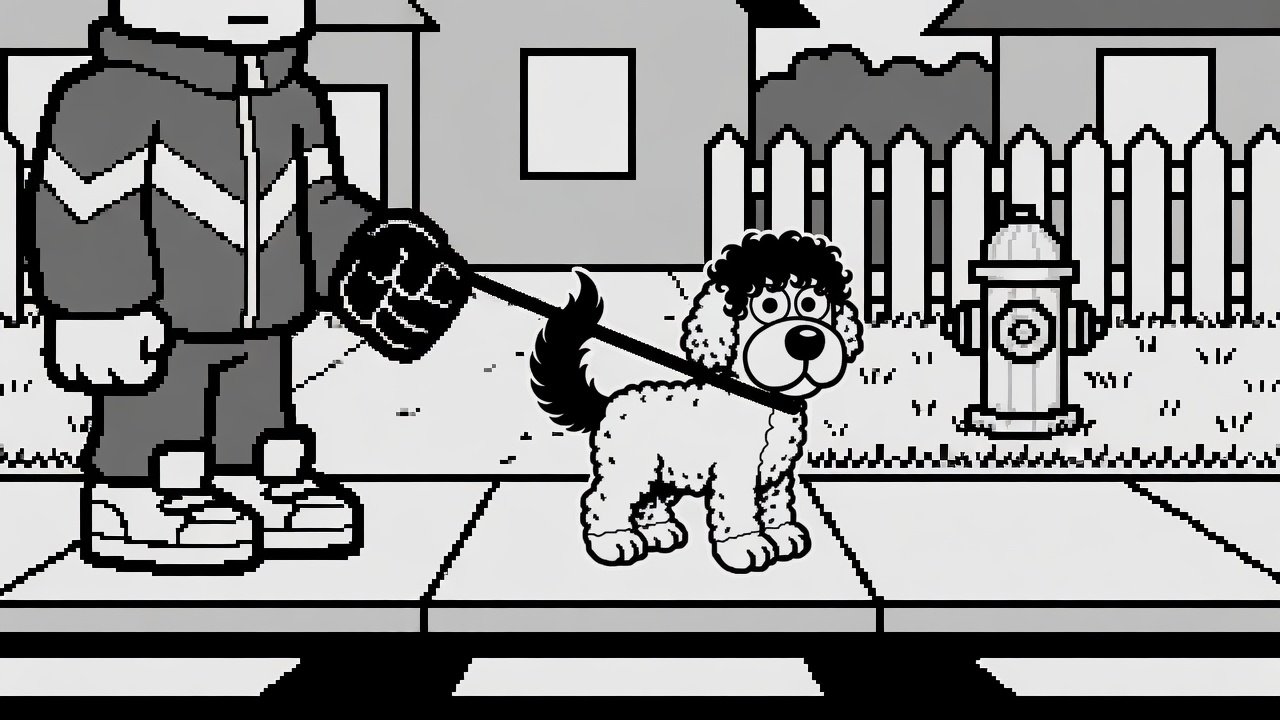
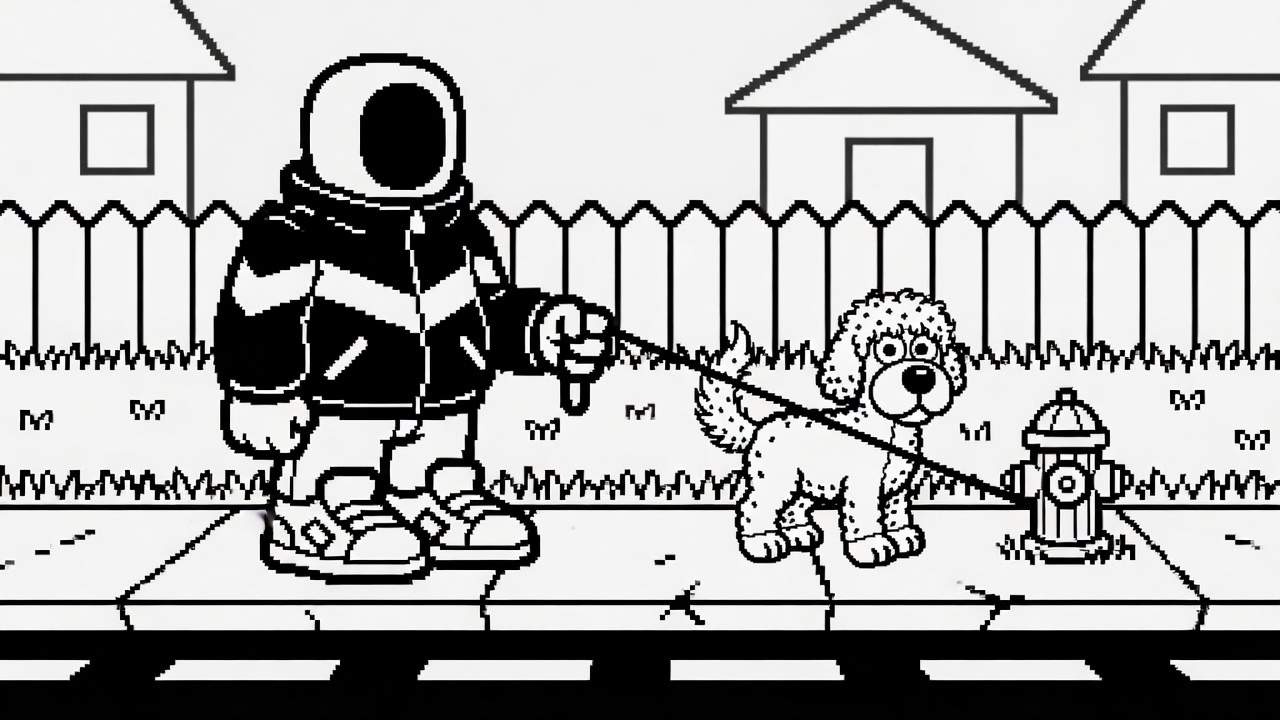
docs: re-chain walk-slice and gnome bumper from momo-stand (#25)
Same stipple doodle in the block and on the forbidden lawn.

diff --git a/docs/art/concept/README.md b/docs/art/concept/README.md
@@ -12,11 +12,12 @@ Momo’s 1-bit lock is [`reference/imagine_momo/`](../../../reference/imagine_mo
 | `momo-lift-leg.png` | Lift-leg |
 | `momo-pee.png` | Lift-leg + puddle |
 | `momo-pooed.png` | Sit + coiled pile |
-| `walk-slice.png` | Block + walker + leash — **stale dog**; re-chain from `momo-stand` |
-| `gnome-bumper.png` | Gnome bumper — **stale dog**; re-chain from `momo-stand` |
+| `walk-slice.png` | Block + walker + leash, re-chained from stand |
+| `gnome-bumper.png` | Gnome bumper, re-chained from stand |
 
 ## Known defects
 
-- `walk-slice.png` and `gnome-bumper.png` still show the previous doodle. Next Imagine pass must `image_edit` them from `momo-stand.png`.
+- `walk-slice.png` walker head reads as a void helmet. Chevron jacket, fist, hydrant, three-band stage, and this Momo are the lock.
+- `gnome-bumper.png` lawn is still a green tint. Gnome face + matching stipple doodle are the lock. Do not replace with a 2×2 checker hedge.
 - Stipple must stay locked to the sprite (not a 2×2 that strobes).
 - Engine art FatBits-cleans outlines to a true 3 px cel.
